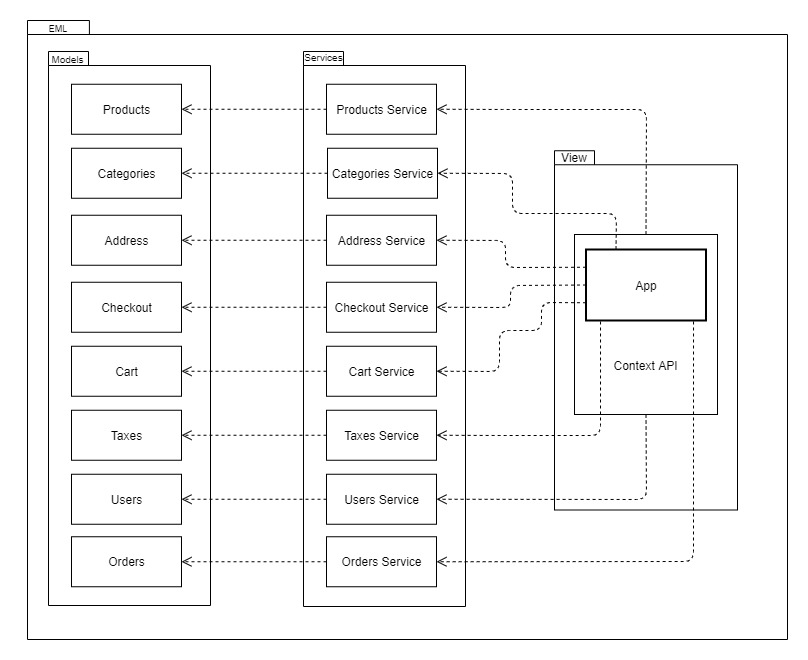
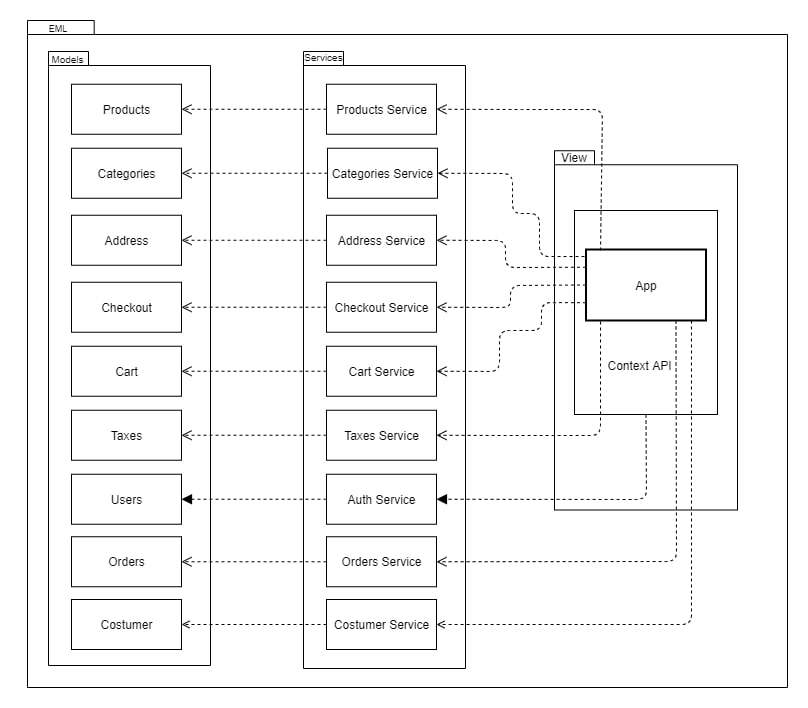
Fix frontend

diff --git a/Esterni/ManualeManutentore/res/sections/frontend.tex b/Esterni/ManualeManutentore/res/sections/frontend.tex
@@ -48,7 +48,7 @@ In a usual React/Next application, the common way of sharing data between two co
 
 Context API is easy to is use as it has a short learning curve. It requires less code, and because there's no need of extra libraries, bundle sizes are reduced. Redux on the other hand requires adding more libraries to the application bundle. The syntax is complex and extensive creating unnecessary work and complexity.
 
-For this reason, the group decided to implement data persistence through ContextAPI. This persistence layer is connected to the Authentication and Product fetch services and allows this data to be shared between the various pages of the UI.
+For this reason, the group decided to implement data persistence through ContextAPI. This persistence layer is connected to the Authentication service and allows this data to be shared between the various pages of the UI.
 
 \subsection{ContextAPI Overview} \label{_contextAPI}
 
@@ -60,7 +60,7 @@ For this reason, the group decided to implement data persistence through Context
 
 The ContextAPI shown in the figure defines in detail the operation of data persistence within the application. The ContextAPI consists of a Store that manages all the instances of the Providers that define a very particular application domain. Specifically, the Store consists of a StoreProvider, which provides the application with the data access point, and a ProviderComposer that combines the instances of the <Name>Provider in a single place then exposed to the UI by the StoreProvider.
 
-The actual Providers that provide instances are in the case of the application, the AuthProvider and the ProductProvider. Each of these defines a particular instance that manages precise data such as, for example, authentication and session management for the User.
+The actual Provider that provide instances is, in the case of the application, the AuthProvider. It defines a particular instance that manages precise data such as authentication and session management for the User.
 
 
 
